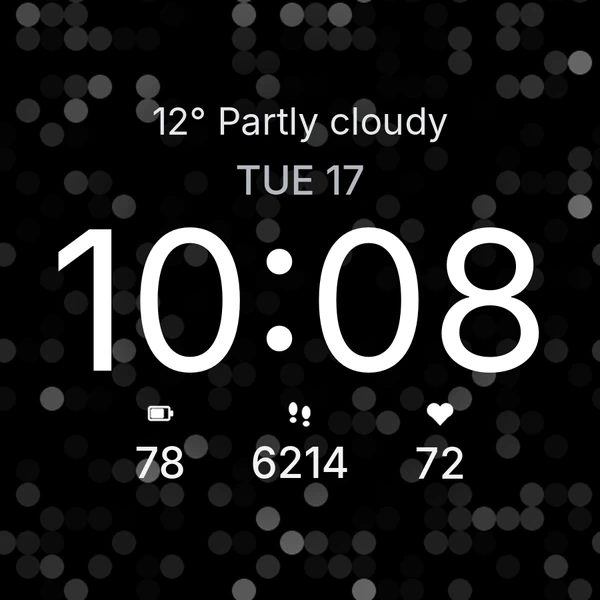
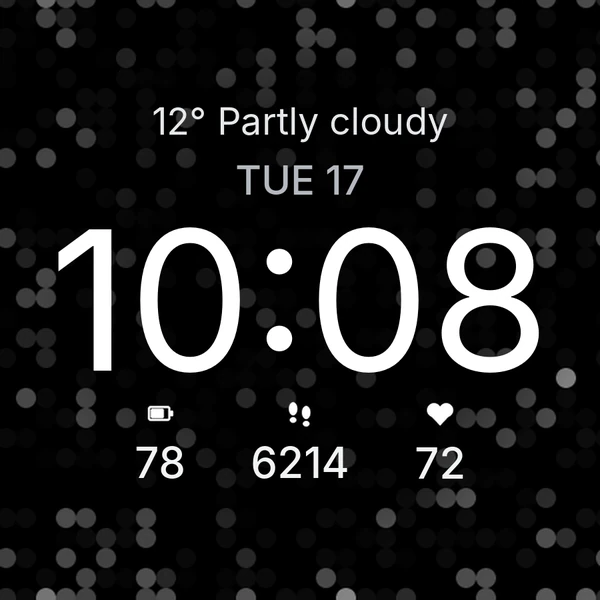
Lemo Dots: shots Sunset Strip and Aurora; sync SortIt privacy policy
LemoDot store shots 04/05 were renamed (Glamour -> Sunset Strip, Water -> Aurora), so build.py failed on the missing 04_glamour.png. Point LD_SHOTS and alt texts at the new shots, drop the orphaned glamour/water/caramel webps. Also picks up the SortIt privacy policy cloud-copy paragraph synced from the game.

diff --git a/sortit/privacy/index.html b/sortit/privacy/index.html
@@ -41,7 +41,8 @@ Developer: Migisweetlab · Contact: <a href="mailto:migisweetlab@gmail.com">migi
 <li>which in-app purchases you own (for example, unlocked level packs), so the game works offline;</li>
 <li>settings (sound, music, vibration, analytics).</li>
 </ul>
-<p>This data stays on your device. It is removed when you delete the game or clear its data. Your phone's own backup (iCloud or Google backup) may include it, depending on your device settings; such backups are handled by Apple or Google under their privacy policies.</p>
+<p>This data stays on your device. It is removed when you delete the game or clear its data.</p>
+<p><strong>Cloud copy.</strong> If backup is turned on in your device settings, Apple or Google may keep a copy of this data in your cloud account, so your progress can come back on a new device or after you reinstall the game: on iOS through iCloud Backup, on Android through Android Auto Backup to your Google account. On Android the copy contains only your game progress, purchases and settings; the technical app log is never included. The copy is made and stored by Apple or Google under their own privacy policies; we have no access to it. You can turn backup off in your device settings.</p>
 <h2>Data we collect</h2>
 <p>The game uses two Google Firebase services.</p>
 <p><strong>Firebase Analytics</strong> — usage statistics:</p>

diff --git a/lemodots/ru/index.html b/lemodots/ru/index.html
@@ -38,7 +38,7 @@
   <div class="ls-fan">
 <div class="ls-phone side l"><img src="../../assets/lemodots/shot-wine.webp" alt="Тема «Вино»" width="540" height="960"></div>
 <div class="ls-phone main"><img src="../../assets/lemodots/shot-nexus4.webp" alt="Тема Nexus 4" width="540" height="960"></div>
-<div class="ls-phone side r"><img src="../../assets/lemodots/shot-glamour.webp" alt="Тема Glamour" width="540" height="960"></div>
+<div class="ls-phone side r"><img src="../../assets/lemodots/shot-sunset.webp" alt="Тема Sunset Strip" width="540" height="960"></div>
   </div>
 </section>
 </div>
@@ -59,7 +59,7 @@
   </div>
   <div class="ls-duo">
     <div class="ls-phone"><img src="../../assets/lemodots/shot-night.webp" alt="Тема «Ночные огни»" width="540" height="960" loading="lazy"></div>
-    <div class="ls-phone"><img src="../../assets/lemodots/shot-water.webp" alt="Тема «Вода»" width="540" height="960" loading="lazy"></div>
+    <div class="ls-phone"><img src="../../assets/lemodots/shot-aurora.webp" alt="Тема Aurora" width="540" height="960" loading="lazy"></div>
   </div>
 </section>
 

diff --git a/lemodots/index.html b/lemodots/index.html
@@ -38,7 +38,7 @@
   <div class="ls-fan">
 <div class="ls-phone side l"><img src="../assets/lemodots/shot-wine.webp" alt="Wine theme" width="540" height="960"></div>
 <div class="ls-phone main"><img src="../assets/lemodots/shot-nexus4.webp" alt="Nexus 4 theme" width="540" height="960"></div>
-<div class="ls-phone side r"><img src="../assets/lemodots/shot-glamour.webp" alt="Glamour theme" width="540" height="960"></div>
+<div class="ls-phone side r"><img src="../assets/lemodots/shot-sunset.webp" alt="Sunset Strip theme" width="540" height="960"></div>
   </div>
 </section>
 </div>
@@ -59,7 +59,7 @@
   </div>
   <div class="ls-duo">
     <div class="ls-phone"><img src="../assets/lemodots/shot-night.webp" alt="Night lights theme" width="540" height="960" loading="lazy"></div>
-    <div class="ls-phone"><img src="../assets/lemodots/shot-water.webp" alt="Water theme" width="540" height="960" loading="lazy"></div>
+    <div class="ls-phone"><img src="../assets/lemodots/shot-aurora.webp" alt="Aurora theme" width="540" height="960" loading="lazy"></div>
   </div>
 </section>
 

diff --git a/build.py b/build.py
@@ -198,8 +198,8 @@ def localsafe_policy_md(lang: str) -> str:
 # LD_SHOTS → assets/lemodots/shot-*.webp, циферблат → wear.webp. Нет репозитория — остаются те, что в сайте.
 LD = Path(os.environ.get("LEMODOT_REPO") or ROOT.parent / "LemoDot").expanduser()
 LD_SHOTS = {"shot-nexus4": "store/phone/clean/01_nexus4.png", "shot-wine": "store/phone/clean/02_wine.png",
-            "shot-glamour": "store/phone/clean/04_glamour.png", "shot-night": "store/phone/clean/03_nightLights.png",
-            "shot-water": "store/phone/clean/05_water.png"}
+            "shot-sunset": "store/phone/clean/04_sunset.png", "shot-night": "store/phone/clean/03_nightLights.png",
+            "shot-aurora": "store/phone/clean/05_aurora.png"}
 LD_WEAR = "store/wear/01_watchface.png"
 LD_ICON = "store/icon_512.png"
 # Google Play: пока приложение только во внутреннем тестировании — кнопка «Скоро». Вписать после публикации.
@@ -1014,7 +1014,7 @@ LD_TEXT = {
              "swipe between home screens and the grid moves with you.",
         soon="In testing now — public release soon.", get_small="Get it on", soon_small="Soon on",
         meta="Android 5.0+ · Wear OS 5+ · free, no ads",
-        hero_alt=["Wine theme", "Nexus 4 theme", "Glamour theme"],
+        hero_alt=["Wine theme", "Nexus 4 theme", "Sunset Strip theme"],
         make_kicker="Make it yours", make_h="Fifteen themes to start. Every dot to tune.",
         make_p="Start from the classic Nexus 4 glass or any of the built-in themes, then change everything: "
                "colors, shape, size, light and motion — with a full-screen live preview while you tweak.",
@@ -1022,7 +1022,7 @@ LD_TEXT = {
                ("Shape", "Circles or squares, any dot size, how many dots are lit and how softly they glow."),
                ("Motion", "Light drift, tilt lighting and tilt parallax, each with its own speed."),
                ("Themes", "Save your own themes and switch between them in one tap.")],
-        make_alt=["Night lights theme", "Water theme"],
+        make_alt=["Night lights theme", "Aurora theme"],
         wear_kicker="Wear OS", wear_h="The same dots on your wrist.",
         wear_p="A watch face with the Nexus 4 dots slowly shimmering behind the time, plus weather, date, "
                "battery, steps and heart rate. In always-on mode it switches to a dim, battery-friendly version.",
@@ -1039,7 +1039,7 @@ LD_TEXT = {
              "вслед; листайте рабочие столы — сетка сдвинется за ними.",
         soon="Сейчас идёт тестирование, публичный выпуск — скоро.", get_small="Доступно в", soon_small="Скоро в",
         meta="Android 5.0+ · Wear OS 5+ · бесплатно, без рекламы",
-        hero_alt=["Тема «Вино»", "Тема Nexus 4", "Тема Glamour"],
+        hero_alt=["Тема «Вино»", "Тема Nexus 4", "Тема Sunset Strip"],
         make_kicker="Под себя", make_h="Пятнадцать тем для старта. Каждую точку — настроить.",
         make_p="Начните с классического стекла Nexus 4 или любой готовой темы и меняйте всё: цвета, форму, размер, "
                "свет и движение — с полноэкранным живым предпросмотром.",
@@ -1047,7 +1047,7 @@ LD_TEXT = {
                ("Форма", "Круги или квадраты, любой размер, сколько точек светится и насколько мягко."),
                ("Движение", "Блуждающий свет, свет и параллакс от наклона — у каждого своя скорость."),
                ("Темы", "Сохраняйте свои темы и переключайтесь одним касанием.")],
-        make_alt=["Тема «Ночные огни»", "Тема «Вода»"],
+        make_alt=["Тема «Ночные огни»", "Тема Aurora"],
         wear_kicker="Wear OS", wear_h="Те же точки — на запястье.",
         wear_p="Циферблат, где точки Nexus 4 медленно мерцают за временем, а рядом погода, дата, заряд, шаги и пульс. "
                "В режиме «Всегда включён» — приглушённая версия, бережная к батарее.",
@@ -1071,7 +1071,7 @@ def ld_landing(lang):
     else:
         play, note = store_btn("", PLAY_SVG, t["soon_small"], "Google Play"), f'<p class="soon-note">{t["soon"]}</p>'
     fan = "\n".join(f'<div class="ls-phone {cls}"><img src="{a}shot-{n}.webp" alt="{alt}" width="540" height="960"></div>'
-                    for (n, cls), alt in zip([("wine", "side l"), ("nexus4", "main"), ("glamour", "side r")], t["hero_alt"]))
+                    for (n, cls), alt in zip([("wine", "side l"), ("nexus4", "main"), ("sunset", "side r")], t["hero_alt"]))
     tiles = "\n".join(f'<div class="ls-tile"><b>{h}</b><span>{p}</span></div>' for h, p in t["tiles"])
     body = f"""
 <section class="ls-hero">
@@ -1100,7 +1100,7 @@ def ld_landing(lang):
   </div>
   <div class="ls-duo">
     <div class="ls-phone"><img src="{a}shot-night.webp" alt="{t["make_alt"][0]}" width="540" height="960" loading="lazy"></div>
-    <div class="ls-phone"><img src="{a}shot-water.webp" alt="{t["make_alt"][1]}" width="540" height="960" loading="lazy"></div>
+    <div class="ls-phone"><img src="{a}shot-aurora.webp" alt="{t["make_alt"][1]}" width="540" height="960" loading="lazy"></div>
   </div>
 </section>
 

diff --git a/src/privacy-policy.ru.md b/src/privacy-policy.ru.md
@@ -17,7 +17,9 @@
 - какие покупки внутри игры у вас есть (например, открытые наборы уровней), чтобы игра работала без интернета;
 - настройки (звуки, музыка, вибрация, аналитика).
 
-Эти данные остаются на устройстве. Они удаляются, когда вы удаляете игру или очищаете её данные. Резервная копия телефона (iCloud или Google) может их включать — это зависит от настроек устройства; такие копии обрабатывают Apple или Google по своим политикам конфиденциальности.
+Эти данные остаются на устройстве. Они удаляются, когда вы удаляете игру или очищаете её данные.
+
+**Облачная копия.** Если в настройках устройства включено резервное копирование, Apple или Google могут хранить копию этих данных в вашем облачном аккаунте, чтобы прогресс вернулся на новом устройстве или после переустановки игры: на iOS — через резервную копию iCloud, на Android — через автоматическое резервное копирование Android (Auto Backup) в аккаунт Google. На Android в копию попадают только прогресс, покупки и настройки; технический журнал приложения в неё не входит. Копию создают и хранят Apple или Google по своим политикам конфиденциальности; у нас к ней нет доступа. Отключить резервное копирование можно в настройках устройства.
 
 ## Какие данные мы собираем
 

diff --git a/src/privacy-policy.en.md b/src/privacy-policy.en.md
@@ -17,7 +17,9 @@ To let you continue playing, the game saves on your device:
 - which in-app purchases you own (for example, unlocked level packs), so the game works offline;
 - settings (sound, music, vibration, analytics).
 
-This data stays on your device. It is removed when you delete the game or clear its data. Your phone's own backup (iCloud or Google backup) may include it, depending on your device settings; such backups are handled by Apple or Google under their privacy policies.
+This data stays on your device. It is removed when you delete the game or clear its data.
+
+**Cloud copy.** If backup is turned on in your device settings, Apple or Google may keep a copy of this data in your cloud account, so your progress can come back on a new device or after you reinstall the game: on iOS through iCloud Backup, on Android through Android Auto Backup to your Google account. On Android the copy contains only your game progress, purchases and settings; the technical app log is never included. The copy is made and stored by Apple or Google under their own privacy policies; we have no access to it. You can turn backup off in your device settings.
 
 ## Data we collect
 
